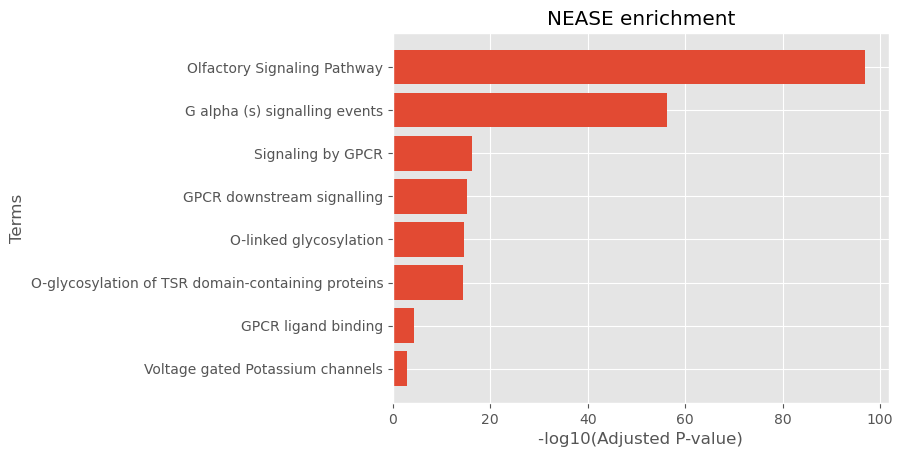
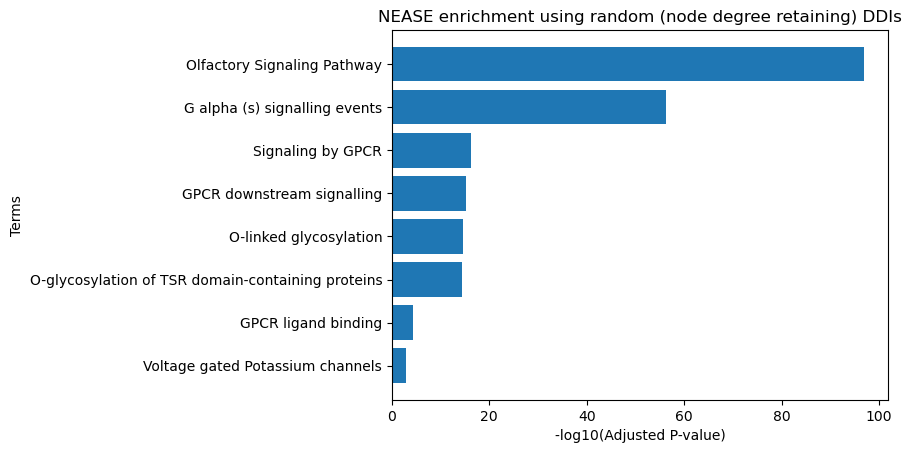
new rewiring strategy

diff --git a/digger_extension/rewire_domain_g_ext.py b/digger_extension/rewire_domain_g_ext.py
@@ -1,51 +1,89 @@
 import pickle
 import random
+import sys
 
 import networkx as nx
 from matplotlib import pyplot as plt
 from ppidm_validation.rewire_gold_standard import sorted_node_degrees
 
-ext_graph: nx.Graph = pickle.load(open('../data_digger/DomainG_extended.pkl', 'rb'))
-print(ext_graph)
-sorted_ext_graph = sorted_node_degrees(list(ext_graph.edges))
-nodes = list(sorted_ext_graph.keys())
-degrees = list(sorted_ext_graph.values())
 
-random_ext_graph = nx.expected_degree_graph(degrees, seed=42)
+def rewire_graph(ext_graph: nx.Graph, file_path=None):
+    sorted_ext_graph = sorted_node_degrees(list(ext_graph.edges))
+    nodes = list(sorted_ext_graph.keys())
+    degrees = list(sorted_ext_graph.values())
 
-node_mapping = {i: j for i, j in zip(range(len(nodes)), nodes)}
-random_ext_graph: nx.Graph = nx.relabel_nodes(random_ext_graph, node_mapping)
-print(random_ext_graph)
-# pickle.dump(random_ext_graph, open('../data_nease/random_graph_human.pkl', 'wb'))
+    random_ext_graph = nx.expected_degree_graph(degrees, seed=42)
 
-random_degrees = {}
-random_interactions = list(random_ext_graph.edges)
-for key in sorted_ext_graph.keys():
-    random_degrees[key] = len(list(random_ext_graph.neighbors(key)))
+    node_mapping = {i: j for i, j in zip(range(len(nodes)), nodes)}
+    random_ext_graph: nx.Graph = nx.relabel_nodes(random_ext_graph, node_mapping)
+    print("Rewired graph:", random_ext_graph)
+    if file_path is not None:
+        pickle.dump(random_ext_graph, open(file_path, 'wb'))
 
-# Visualising
-plt.style.use('ggplot')
-x = degrees
-y = list(random_degrees.values())
+    random_degrees = {}
+    random_interactions = list(random_ext_graph.edges)
+    for key in sorted_ext_graph.keys():
+        random_degrees[key] = len(list(random_ext_graph.neighbors(key)))
 
-plt.scatter(x, y, color='#1F77B4')
-# Adding labels to the plot
-plt.xlabel('expected degree')
-plt.ylabel('true degree')
-plt.plot([0, x[0]], [0, x[0]], 'r--')
-plt.title('Node degree of the random extended DomainG network')
+    print("Network Density of random:", nx.density(random_ext_graph))
+    print("Network Density of real  :", nx.density(ext_graph))
+    # practially the same
 
-# Displaying the plot
-# plt.savefig("../pictures/domaing_expected_node_degree.png")
-plt.show()
+    # print("Average Clustering Coefficient of random:", nx.average_clustering(random_ext_graph))
+    # print("Average Clustering Coefficient of real  :", nx.average_clustering(ext_graph))
+    # random: 0.05019420725696134
+    # real: 0.38526512773920396
+    return random_ext_graph, degrees, random_degrees
 
-density = nx.density(ext_graph)
-print("Network Density of random:", nx.density(random_ext_graph))
-print("Network Density of real  :", nx.density(ext_graph))
-# practially the same
 
-# print("Average Clustering Coefficient of random:", nx.average_clustering(random_ext_graph))
-# print("Average Clustering Coefficient of real  :", nx.average_clustering(ext_graph))
-# random: 0.05019420725696134
-# real: 0.38526512773920396
+pickle.load(open('../data_digger/DomainG_extended.pkl', 'rb'))
+"../data_nease/random_graph_human.pkl"
 
+
+def visualize(degrees, random_degrees, file_path=None, title='Expected node degree vs. true node degree'):
+    # Visualising
+    plt.style.use('ggplot')
+    x = degrees
+    y = list(random_degrees.values())
+
+    plt.scatter(x, y, color='#1F77B4')
+    # Adding labels to the plot
+    plt.xlabel('expected degree')
+    plt.ylabel('true degree')
+    plt.plot([0, x[0]], [0, x[0]], 'r--')
+    plt.title(title)
+
+    # Displaying the plot
+    if file_path is not None:
+        plt.savefig(file_path)
+    plt.show()
+
+"../pictures/domaing_expected_node_degree.png"
+
+
+def reassign_ddis(ppi_ddi_graph: nx.Graph, random_graph: nx.Graph):
+
+    # find all relevant domains for any given gene/protein
+    ddi_pairs = dict()
+    for node in ppi_ddi_graph.nodes:
+        prot, domain = node.split("/")
+        if prot not in ddi_pairs:
+            ddi_pairs[prot] = set()
+        ddi_pairs[prot].add(domain)
+
+    # assign each ppi two random domains
+    domainG_random = set()
+    skips = 0
+    for prot_a, prot_b in random_graph.edges:
+        try:
+            prot_a_domain = random.choice(list(ddi_pairs.get(prot_a)))
+            prot_b_domain = random.choice(list(ddi_pairs.get(prot_b)))
+        except TypeError:
+            skips += 1
+            continue
+        domainG_random.add((f"{prot_a}/{prot_a_domain}", f"{prot_b}/{prot_b_domain}"))
+
+    print("Skipped:", skips)
+    domainG_graph = nx.Graph(domainG_random)
+    print("Reassigned PPI/DDI graph:", domainG_graph)
+    return domainG_graph

diff --git a/digger_extension/nease_annotated_ppi.py b/digger_extension/nease_annotated_ppi.py
@@ -3,6 +3,7 @@ import pickle
 import mygene
 import networkx as nx
 import pandas as pd
+import rewire_domain_g_ext as rg
 
 path = "D:/programming/bachelor_projects/NEASE/nease/data"
 
@@ -62,6 +63,7 @@ def filter_by_ddi(ddi_path):
     ddis = [(i.split("/")[0], j.split("/")[0]) if i.split("/")[0] < j.split("/")[0] else
             (j.split("/")[0], i.split("/")[0]) for i, j in ddi_graph.edges]
 
+
     filtered = set(ddis) & set(ppis)
     print(f"{len(filtered):,} interactions supported by DDI")
     return list(filtered)
@@ -102,38 +104,21 @@ def pathway_degree(pathways: pd.DataFrame, ppi_ddi_graph: nx.Graph):
     return new_degrees
 
 
-def combine_exon_residue_interactions(exon_level: str, residue_level: str):
-    exon_interactions = set()
-    residue_interactions = set()
-
-    with open(exon_level, 'r') as f:
-        for line in f.readlines():
-            el1 = line.split("\t")[0]
-            el2 = line.split("\t")[1].strip()
-            exon_interactions.add((el1, el2))
-    with open(residue_level, 'r') as f:
-        for line in f.readlines():
-            el1 = line.split("\t")[0]
-            el2 = line.split("\t")[1].strip()
-            residue_interactions.add((el1, el2))
-
-    print("Exon level interactions:", len(exon_interactions))
-    print("Residue level interactions:", len(residue_interactions))
-    print("Combined:", len(exon_interactions | residue_interactions))
-
-
 if __name__ == '__main__':
+    extended_graph = "C:\\Users\\gooog\\miniconda3\\Lib\\site-packages\\nease\\data\\network\\graph_human_ext.pkl"
     # extract_pdb_interactions()
-    ppis_filtered = filter_by_ddi(path + "/network/graph_human_ext.pkl")
+    ppis_filtered = filter_by_ddi(extended_graph)
     ppis_filtered += filter_by_elm(path + "/database/ELM_interactions")
     ppis_filtered += filter_by_pdb("../residue_supported_interactions.tsv")
     filtered_graph = nx.Graph(ppis_filtered)
     print("PPI graph supported by DDI/ELM/PDB:", filtered_graph)
+    random_supported_graph, degrees, random_degrees = rg.rewire_graph(filtered_graph)
+    # rg.visualize(degrees, random_degrees)
+    random_ppi_ddi_graph = rg.reassign_ddis(pickle.load(open(extended_graph, 'rb')), random_supported_graph)
 
-    pathways = pickle.load(open(path + "/pathways/pathways_human", 'rb'))
-    new_degrees = pathway_degree(pathways, filtered_graph)
-    # pathways['Degree in the PPI/DDI_old'] = pathways['Degree in the PPI/DDI']
-    # pathways['Degree in the structural PPI_old'] = pathways['Degree in the structural PPI']
-    pathways['Degree in the structural PPI'] = new_degrees
-    pickle.dump(pathways, open(path + "/pathways/pathways_human", 'wb'))
-
+    # pathways = pickle.load(open(path + "/pathways/pathways_human", 'rb'))
+    # new_degrees = pathway_degree(pathways, filtered_graph)
+    # # pathways['Degree in the PPI/DDI_old'] = pathways['Degree in the PPI/DDI']
+    # # pathways['Degree in the structural PPI_old'] = pathways['Degree in the structural PPI']
+    # pathways['Degree in the structural PPI'] = new_degrees
+    # pickle.dump(pathways, open(path + "/pathways/pathways_human_ext_random", 'wb'))

diff --git a/digger_extension/digger_data_explorer.py b/digger_extension/digger_data_explorer.py
@@ -41,9 +41,9 @@ if __name__ == '__main__':
         domains_int.add((domain1, domain2))
     print("Distinct domains:", len(domains_int))
     # print(entrez_to_name_online('6874'))
-    # export_table("data_digger/DomainG.pkl_interactions")
+    # export_table("../data_digger/DomainG.pkl_interactions")
 
-    ddi_predicted = read_interactions('../predicted_ddi_ppi.tsv.tsv', third_col='all')
+    ddi_predicted = read_interactions('../predicted_ddi_ppi.tsv.tsv', third_col=['Gold', 'Silver'])
     print("Predicted PPI/DDI interactions:", len(set(ddi_predicted)))
     for ddi in ddi_predicted:
         ddi_ppi_set.add(ddi)
@@ -51,11 +51,11 @@ if __name__ == '__main__':
     print("Exclusively in DomainG.pkl:", len(set(ddi_ppi_set) - set(ddi_predicted)))
 
     ext_graph = nx.Graph(ddi_ppi_set)
-    print(ext_graph)
-    # pickle.dump(ext_graph, open("data_digger/DomainG_extended.pkl", 'wb'))
-    # Gold: 384.737
-    # Silver: 109.185
-    # Bronze: 565.520
+    print("Extended graph:", ext_graph)
+    pickle.dump(ext_graph, open("../data_digger/DomainG_extended_gold_silver.pkl", 'wb'))
+    # Gold: 380.363
+    # Silver: 97.645
+    # Bronze: 545.397
 
     # extending the DDI graph
     ddi_set = load_graph('../data_digger/DDI.pkl')
@@ -64,4 +64,4 @@ if __name__ == '__main__':
         ddi_set.add(interaction)
     ext_ddi_graph = nx.Graph(ddi_set)
     print(ext_ddi_graph)
-    # pickle.dump(ext_ddi_graph, open("data_digger/DDI_extended.pkl", 'wb'))
+    # pickle.dump(ext_ddi_graph, open("../data_digger/DDI_extended.pkl", 'wb'))

diff --git a/ppidm_validation/did_comparison.py b/ppidm_validation/did_comparison.py
@@ -16,7 +16,7 @@ def sort_dict(dictionary: dict):
     return {k: v for k, v in sorted(dictionary.items(), key=lambda item: item[1], reverse=True)}
 
 
-def read_interactions(file: str, third_col='all'):
+def read_interactions(file: str, third_col=None):
     interactions = []
     header = False
     with open(file, 'r') as f:
@@ -25,8 +25,8 @@ def read_interactions(file: str, third_col='all'):
                 header = True
                 continue
             line = line.strip().split("\t")
-            if third_col != 'all':
-                if third_col != line[2]:
+            if third_col is not None:
+                if line[2] not in third_col:
                     continue
             assoc = (line[0], line[1]) if line[0] < line[1] else (line[1], line[0])
             interactions.append(assoc)

diff --git a/ppidm_run/main.py b/ppidm_run/main.py
@@ -6,10 +6,10 @@ result_address = '../resultdata/'
 source_address = '../sourcedata/'
 
 
-import interaction_clear_3did_kbdock as ic3k
-import process_tables as pt
-import filtering
-import pvalue as pv
+import ppidm_run.interaction_clear_3did_kbdock as ic3k
+import ppidm_run.process_tables as pt
+import ppidm_run.filtering
+import ppidm_run.pvalue as pv
 
 
 if __name__ == '__main__':

diff --git a/ppidm_run/pvalue.py b/ppidm_run/pvalue.py
@@ -2,7 +2,7 @@ import datetime
 import math
 from math import sqrt
 
-from main import source_address, result_address
+from ppidm_run.main import source_address, result_address
 
 
 def pvalue_calculation(source, seqDom, pdbchainDom):

diff --git a/ppidm_run/process_tables.py b/ppidm_run/process_tables.py
@@ -4,7 +4,7 @@ import timeit
 from itertools import combinations, chain
 from math import sqrt
 
-from main import source_address, result_address
+from ppidm_run.main import source_address, result_address
 
 
 def read_chain_dom():

diff --git a/ppidm_run/filtering.py b/ppidm_run/filtering.py
@@ -4,7 +4,7 @@ import datetime
 import pickle
 import sys
 
-from main import result_address, source_address
+from ppidm_run.main import result_address, source_address
 import random
 from math import sqrt
 

diff --git a/ppidm_run/interaction_clear_3did_kbdock.py b/ppidm_run/interaction_clear_3did_kbdock.py
@@ -1,5 +1,5 @@
 import datetime
-from main import result_address, source_address
+from ppidm_run.main import result_address, source_address
 
 
 def clean_3did_kbdock_domine_downloaded_files():
